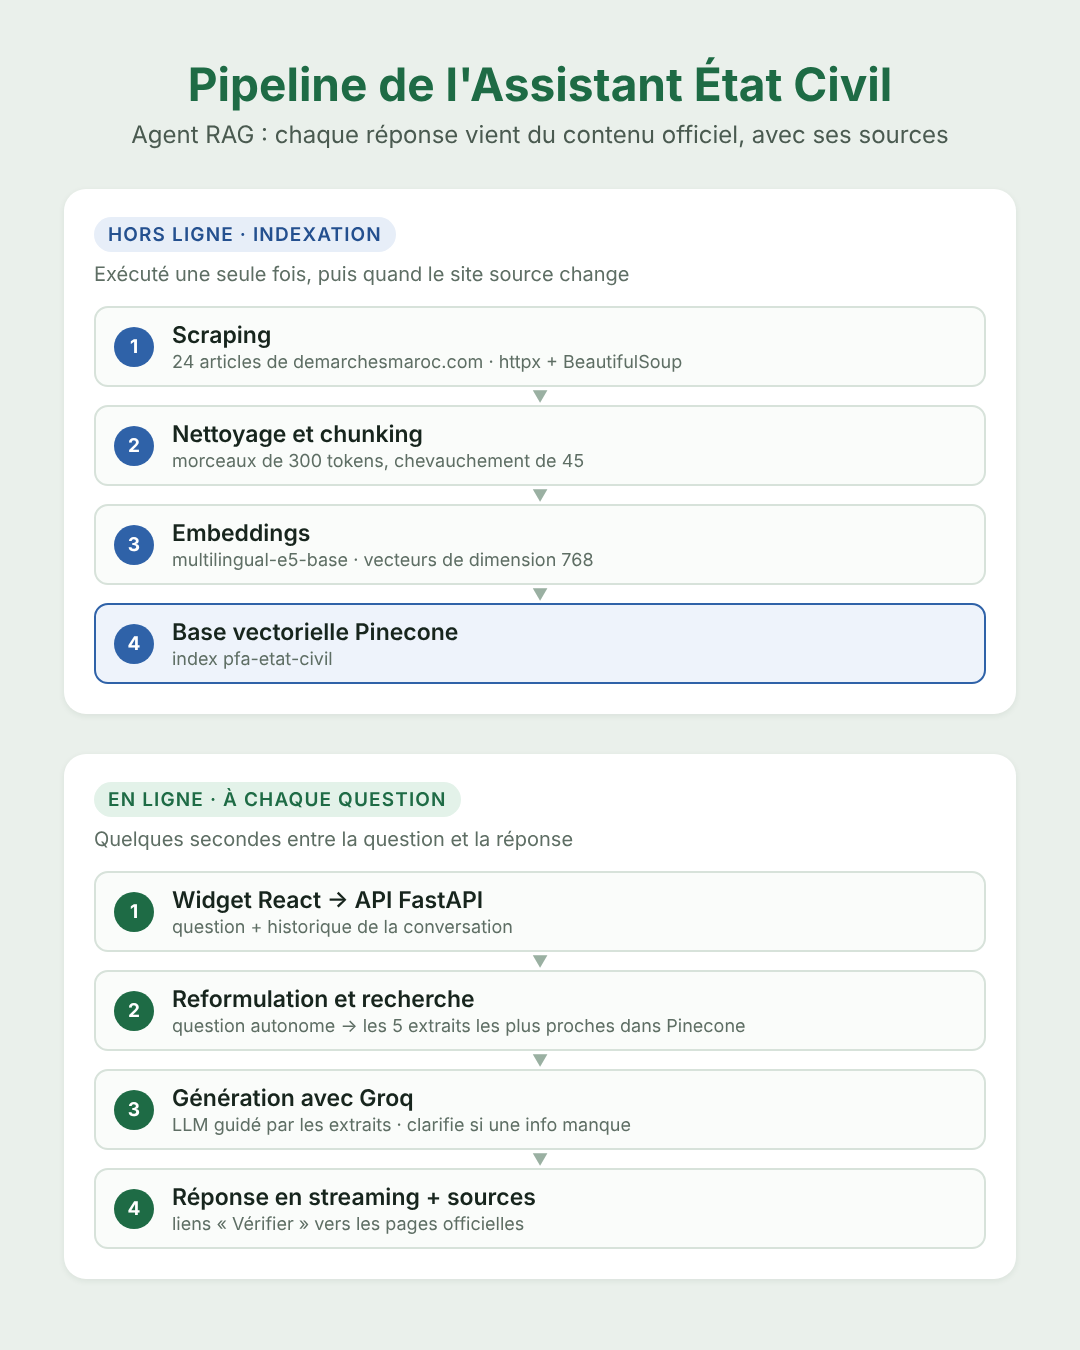
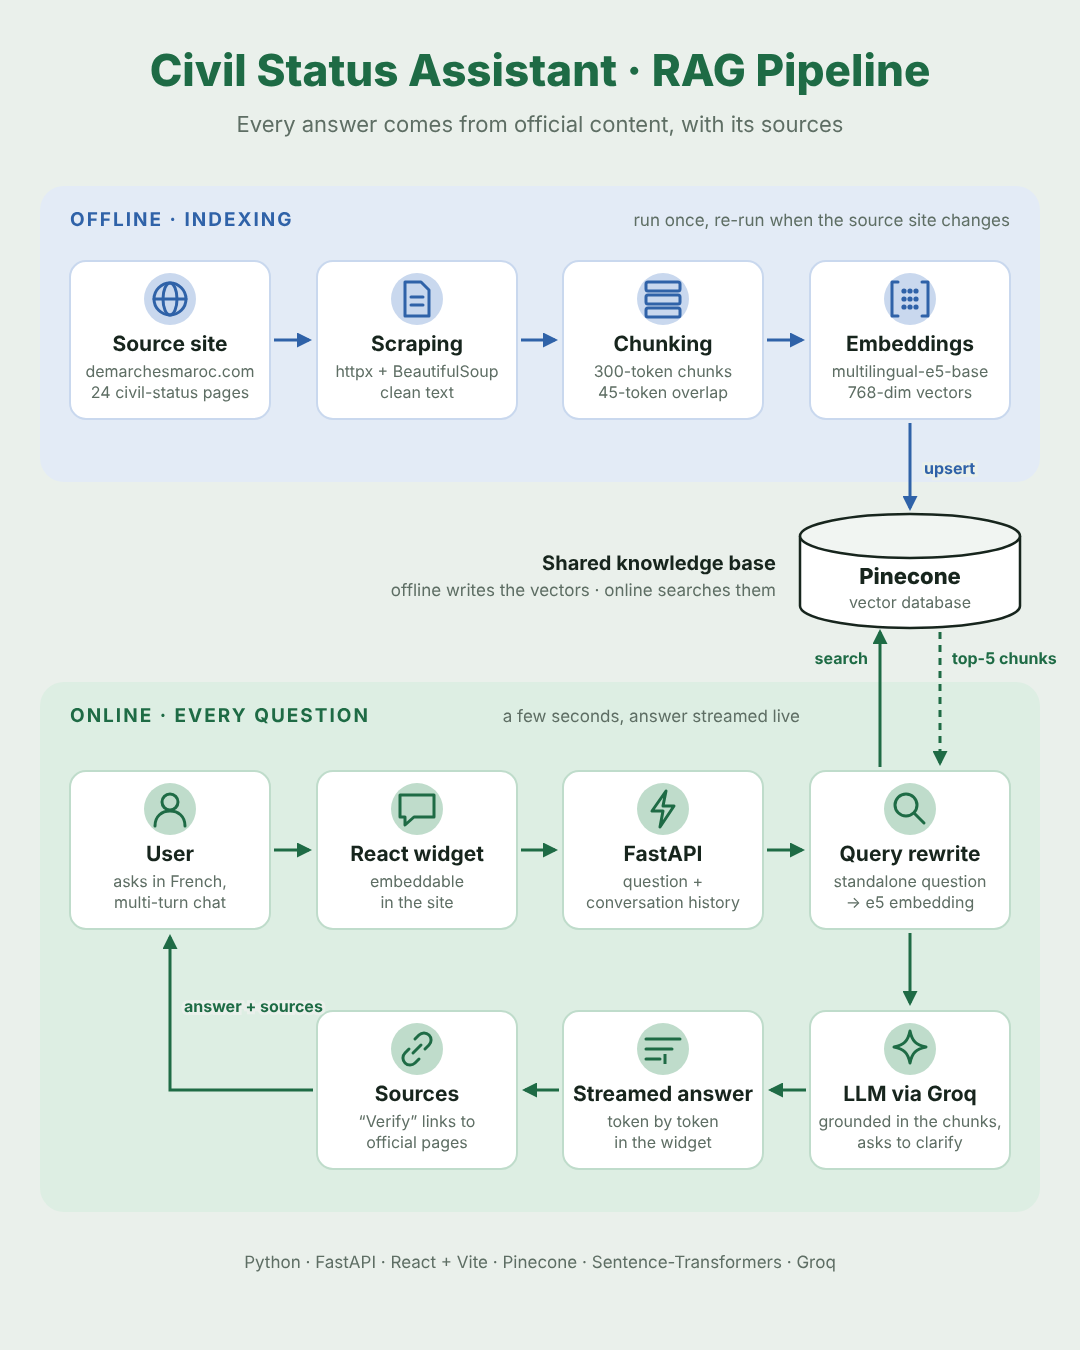
Update pipeline diagram

diff --git a/README.md b/README.md
@@ -19,7 +19,7 @@ Projet de Fin d'Année (UIR).
 
 ## Architecture
 
-![Pipeline hors ligne (indexation) et en ligne (question → réponse)](docs/pipeline.png)
+![RAG pipeline: offline indexing and online question answering](docs/pipeline.png)
 
 ```
 Site source -> Scraping -> Nettoyage -> Chunking -> Embeddings -> Pinecone
